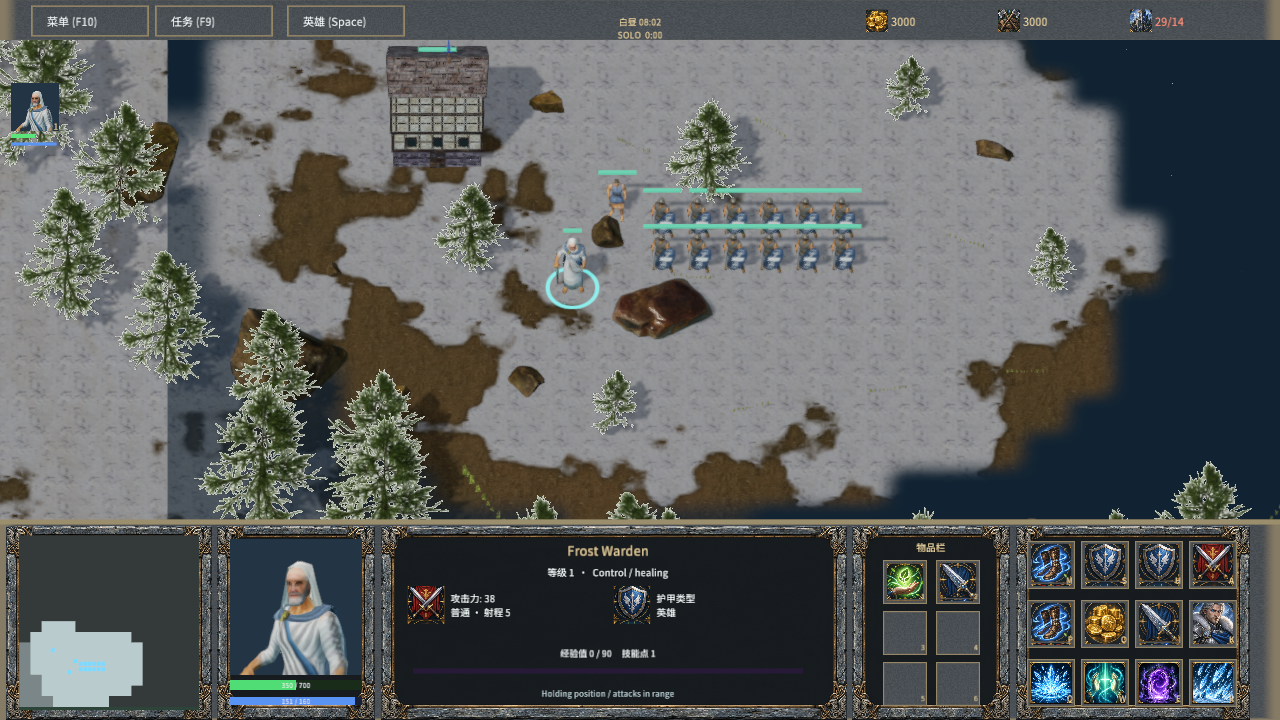
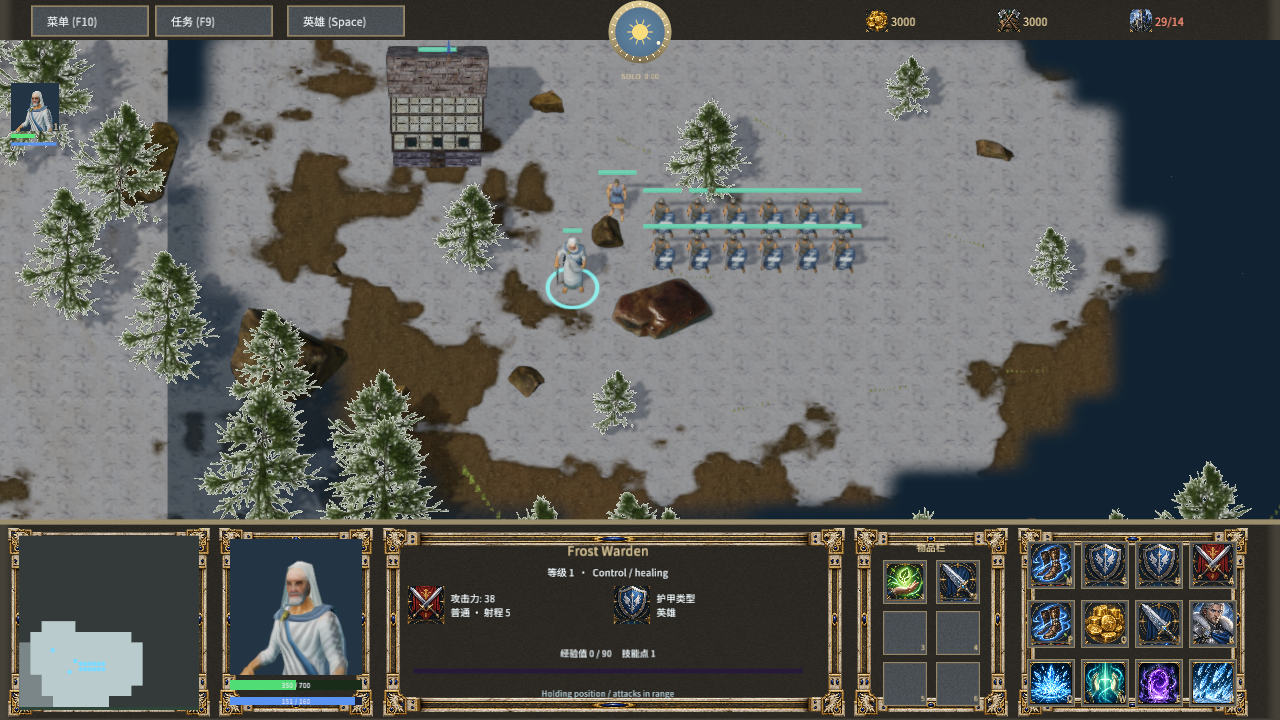
feat(frostbound): add race HUD skins and live day-night dial

Changed region(s): [[0.0, 0.7028, 1.0, 1.0], [0.0, 0.0, 1.0, 0.0917]]

diff --git a/samples/frostbound-realms/game/client.js b/samples/frostbound-realms/game/client.js
@@ -244,7 +244,10 @@ var FrostClient=(()=>{
     if(mode==='custom'){const preview=menuMap();label('Map name',menuMaps[mapChoice][0]);label('Map description',menuMaps[mapChoice][2]);for(let i=0;i<256;i++){const index=Math.floor(i/16)*64+(i%16)*2,kind=preview.terrain[index],color=kind===1?[.05,.18,.31,1]:kind===2?[.43,.33,.21,1]:[.41,.51,.48,1];set('Map tile '+i,'Image',{...authored['Map tile '+i].Image,color});}}
     label('musicVolume label','音乐音量：'+Math.round(settings.music*100)+'%');label('sfxVolume label','音效音量：'+Math.round(settings.sfx*100)+'%');label('menuSnow label','背景飘雪：'+(settings.snow?'开启':'关闭'));
     for(const n of ['Header','Brand','Resources','Clock','Bottom','Bottom rule','Minimap','Selection title','Selection stats','Selection queue','Controls','Portrait','Health back','Health fill','Mana back','Mana fill'])show(n,world);
-    for(const n of Object.keys(entities))if(n.startsWith('HUD Frame '))show(n,world);
+    const hudRace=state.teams[team].faction,hudSkin=['human','orc','night-elf','undead'][hudRace],hudTint=[[.026,.023,.018,1],[.033,.013,.006,1],[.018,.012,.032,1],[.012,.022,.016,1]][hudRace];
+    for(const n of Object.keys(entities))if(n.startsWith('HUD Frame ')||n==='Pause frame'){if(n.startsWith('HUD Frame '))show(n,world);set(n,'Image',{...authored[n].Image,sprite:'Assets/Art/hud-'+hudSkin+'-frame.png'});}
+    for(const n of ['Header','Bottom','Tooltip panel'])set(n,'Image',{...authored[n].Image,material:'Assets/Materials/RacePanel.mmat',color:hudTint});
+    show('HUD Daynight dial',world);if(world)set('HUD Daynight dial','Image',{...authored['HUD Daynight dial'].Image,color:[S.timeOfDay(state)/24,S.daylight(state),0,1]});
     for(const n of ['Gold','Lumber','Supply']){show('HUD '+n+' icon',world&&!editing);show('HUD '+n+' value',world&&!editing);}
     show('Hero preview',mode==='custom');set('Hero preview','Image',{...authored['Hero preview'].Image,sprite:FrostVisual.heroPortrait(heroClass)});
     label('heroChoice label','英雄：'+S.heroes[heroClass].label);label('faction label','种族：'+['人类','兽人','暗夜精灵','不死族'][faction]);
@@ -297,7 +300,7 @@ var FrostClient=(()=>{
 
     show('Resources',world&&editing);label('HUD Gold value',String(Math.floor(t.gold)));label('HUD Lumber value',String(Math.floor(t.wood)));label('HUD Supply value',pop.used+'/'+pop.cap,pop.used>=pop.cap?[1,.3,.2,1]:[.93,.83,.58,1]);
     label('Resources',editing?'WORLD EDITOR / '+map.mode.toUpperCase()+' / SLOT '+slot:'GOLD '+Math.floor(t.gold)+'    LUMBER '+Math.floor(t.wood)+'    SUPPLY '+pop.used+'/'+pop.cap+'    '+S.factions[t.faction].toUpperCase());
-    label('Clock',(S.isNight(state)?'夜晚 ':'白昼 ')+String(Math.floor(S.timeOfDay(state))).padStart(2,'0')+':'+String(Math.floor(S.timeOfDay(state)*60)%60).padStart(2,'0')+'\n'+(editing?'TAB changes mode':state.mode==='td'?'WAVE '+Math.min(state.wave,map.waves)+'/'+map.waves+'  LIVES '+state.lives:(online?'ONLINE  ':'SOLO  ')+Math.floor(state.frame/600)+':'+String(Math.floor(state.frame/10)%60).padStart(2,'0')));
+    label('Clock',(editing?'TAB changes mode':state.mode==='td'?'WAVE '+Math.min(state.wave,map.waves)+'/'+map.waves+'  LIVES '+state.lives:(online?'ONLINE  ':'SOLO  ')+Math.floor(state.frame/600)+':'+String(Math.floor(state.frame/10)%60).padStart(2,'0')));
     transform('Rally marker',world&&u?.rally?[u.rally.x,S.elevation(map,u.rally.x,u.rally.z)+.2,u.rally.z]:hidden,[2,2,2]);
     label('Selection title',editing?(editorPage===2?(map.triggers[triggerIndex]?.name||'TRIGGER EDITOR'):editorPage===4?(map.regions[regionIndex]?.name||'REGION EDITOR'):'WORLD EDITOR'):selected.length>1?selected.length+' units selected':u?FrostVisual.name(state,u):'Your command awaits');
     label('Selection stats',editing?(editorPage===6?['Auto winter','Soil','Snow'][surfaceBrush]+' / '+(surfaceRadius*2+1)+' x '+(surfaceRadius*2+1)+' cells\nPaint dry ground and roads\nWater and elevation preserved':editorPage===5?'Height '+heightBrush+' / '+(heightBrush*2)+' world units\n'+(rampBrush?'Ramp '+['','East','West','South','North'][rampBrush]:'Level ground')+'\nF9 Highland Pass / F7 play':editorPage===2&&map.triggers[triggerIndex]?map.triggers[triggerIndex].conditions.length+' conditions / '+map.triggers[triggerIndex].logic+'\n'+map.triggers[triggerIndex].actions.length+' actions / '+map.triggers[triggerIndex].limit+' runs\n'+(map.triggers[triggerIndex].after<0?'No prerequisite':'After #'+(map.triggers[triggerIndex].after+1)):editorPage===4&&map.regions[regionIndex]?'Width '+map.regions[regionIndex].width+' / Height '+map.regions[regionIndex].height+'\nCenter '+map.regions[regionIndex].x+', '+map.regions[regionIndex].z:'Gold '+map.startingGold+' [+ / -]\nWaves '+map.waves+' [PgUp / PgDn]\nInterval '+map.waveInterval+'s [[ / ]]'):u?'HP '+Math.ceil(u.hp)+' / '+Math.ceil(u.maxHp)+'\nATK '+Math.round(u.damage*(u.cripple>0?.5:1))+'  '+(u.kind==='hero'?'LV '+u.level+'\nMP '+Math.floor(u.mana)+' / '+S.maxMana(u):(['necromancer','shaman'].includes(u.kind)?'MP '+Math.floor(u.mana)+' / '+S.maxMana(u)+'\n':S.types[u.kind].attack+' / '+S.types[u.kind].armor+'\n')+(S.types[u.kind].flying?'Flying / ':'' )+(S.types[u.kind].antiAir?'Ground + air':'Ground only')):'Left click / drag to select\nRight click to move or attack\nWorkers gather from mines and trees');
@@ -318,6 +321,7 @@ var FrostClient=(()=>{
       set('action'+i+' box','Image',{...authored['action'+i+' box'].Image,color:hover?[.13,.21,.24,1]:[.12,.10,.055,1]});
       if(hover){const t=editing&&editorPage===2?map.triggers[triggerIndex]:null,e=t?(triggerPanel===1?t.conditions:t.actions)[entryIndex%(triggerPanel===1?t.conditions.length:t.actions.length)]:null;hint=a.label+'\n'+(a.detail||(editing&&triggerPanel===2&&e?.action==='message'?e.text:editing?'Click controls to edit. N edits names or message text; Del removes the selected entry.':'Select a target or building site when prompted.'));}
     }
+    if(world&&hovered({x:0,y:-328,w:64,h:64},hover))hint=(S.isNight(state)?'夜晚':'白昼')+'  '+String(Math.floor(S.timeOfDay(state))).padStart(2,'0')+':'+String(Math.floor(S.timeOfDay(state)*60)%60).padStart(2,'0')+'\n昼夜影响视野与野怪休眠；圆盘标记显示当前时刻。';
     show('Tooltip panel',!!hint);show('Tooltip text',!!hint);if(hint)label('Tooltip text',hint);
     set('Portrait','Image',{...authored.Portrait.Image,sprite:u&&!editing?FrostVisual.unitPortrait(state,u):'Assets/Art/command-icons.png#tower'});
     const portraitVisual=playing&&u?FrostVisual.model(state,u):null,portraitView=portraitVisual&&FrostPortraitViews[portraitVisual.key],livePortrait=!!portraitView;
@@ -342,7 +346,7 @@ var FrostClient=(()=>{
     }
     for(let i=0;i<8;i++){const index=Math.floor(roomIndex/8)*8+i,r=rooms[index],on=mode==='rooms'&&!!r;for(const suffix of [' border',' box',' label'])show('room'+i+suffix,on);if(on){label('room'+i+' label',(index===roomIndex?'▶  ':'')+r.name+'   '+r.code+'   '+r.players.length+'/2');set('room'+i+' box','Image',{...authored['room'+i+' box'].Image,color:index===roomIndex?[1.6,1.6,1.3,1]:[1,1,1,1]});}}
     show('Drag box',!!drag);if(drag){const a=authored['Drag box'].RectTransform;set('Drag box','RectTransform',{...a,anchored_position:[(drag.start.x+drag.end.x)/2,(drag.start.y+drag.end.y)/2],size_delta:[Math.abs(drag.start.x-drag.end.x),Math.abs(drag.start.y-drag.end.y)]});}
-    label('Frost telemetry',JSON.stringify({mode,mapChoice,settings,heroChoice:heroClass,heroPanel,faction,camera,zoom,flyers:state.units.filter(u=>S.types[u.kind].flying),construction:state.units.filter(u=>u.team===team&&u.built<1),production:state.units.filter(u=>u.team===team&&S.trainable(state,u).length),worker:state.units.find(u=>u.team===team&&u.kind==='worker'),gatherers:state.units.filter(u=>u.team===team&&['worker','ghoul'].includes(u.kind)),mines:state.units.filter(u=>u.kind==='hauntedmine'),resources:state.resources,corpses:state.corpses||[],necromancers:state.units.filter(u=>u.kind==='necromancer'),casterResearch:state.teams[team].necromancy||0,shamanResearch:state.teams[team].shamanism||0,cannibalizeResearch:state.teams[team].cannibalize||0,cannibals:state.units.filter(u=>['ghoul','abomination'].includes(u.kind)),skeletonResearch:[state.teams[team].skeletalLongevity||0,state.teams[team].skeletalMastery||0],affected:state.units.filter(u=>u.frenzy>0||u.cripple>0||u.purgeLeft>0||u.bloodlust>0||u.lightningShield>0),shamans:state.units.filter(u=>u.kind==='shaman'),summons:state.units.filter(u=>u.summoned),projectiles:state.projectiles?.map(({id,x,y,z,art})=>({id,x,y,z,art})),hour:S.timeOfDay(state),night:S.isNight(state),sleeping:state.units.filter(u=>(online?u.sleeping:S.asleep(state,u))).map(u=>u.id),raiders:state.units.filter(u=>u.kind==='raider'),treants:state.units.filter(u=>u.kind==='treant'),wildlife:state.units.filter(u=>u.kind==='neutral'),wave:state.wave,laneUnits:state.units.filter(u=>S.types[u.kind].laneCreep),frame:state.frame,kind:state.mode,team,units:state.units.length,gold:state.teams[team].gold,selected,hero:state.units.find(u=>u.team===team&&u.kind==='hero'),paused,online,room:code,netStates,brush,slot,editorPage,placedHeroes:map.units.filter(u=>u.kind==='hero').map(u=>({heroClass:u.heroClass??map.players[u.team]?.heroClass??0,team:u.team})),placedUnits:map.units.length,triggers:map.triggers.length,regions:map.regions?.length||0,editorTrigger:editing?map.triggers[triggerIndex]:null,editorRegion:editing?map.regions[regionIndex]:null,triggerPanel,triggered:state.triggered,triggerState:state.triggerState,announcement:state.announcements?.[team]||state.announcement,undoDepth:undo.length,quest:state.quest,loot:state.loot.length,map:map.name,terrainRaised:map.heights.filter(v=>v>0).length,terrainRamps:map.ramps.filter(v=>v>0).length,heroElevation:state.units.some(u=>u.team===team&&u.kind==='hero')?S.unitHeight(state,state.units.find(u=>u.team===team&&u.kind==='hero')):0,heightBrush,rampBrush,surfaceBrush,surfaceRadius,terrainSurfaces:[0,1,2].map(v=>map.surfaces.filter(n=>n===v).length),terrainWater:map.terrain.filter(v=>v===1).length,winner:state.winner,notice}));
+    label('Frost telemetry',JSON.stringify({mode,hudSkin,mapChoice,settings,heroChoice:heroClass,heroPanel,faction,camera,zoom,flyers:state.units.filter(u=>S.types[u.kind].flying),construction:state.units.filter(u=>u.team===team&&u.built<1),production:state.units.filter(u=>u.team===team&&S.trainable(state,u).length),worker:state.units.find(u=>u.team===team&&u.kind==='worker'),gatherers:state.units.filter(u=>u.team===team&&['worker','ghoul'].includes(u.kind)),mines:state.units.filter(u=>u.kind==='hauntedmine'),resources:state.resources,corpses:state.corpses||[],necromancers:state.units.filter(u=>u.kind==='necromancer'),casterResearch:state.teams[team].necromancy||0,shamanResearch:state.teams[team].shamanism||0,cannibalizeResearch:state.teams[team].cannibalize||0,cannibals:state.units.filter(u=>['ghoul','abomination'].includes(u.kind)),skeletonResearch:[state.teams[team].skeletalLongevity||0,state.teams[team].skeletalMastery||0],affected:state.units.filter(u=>u.frenzy>0||u.cripple>0||u.purgeLeft>0||u.bloodlust>0||u.lightningShield>0),shamans:state.units.filter(u=>u.kind==='shaman'),summons:state.units.filter(u=>u.summoned),projectiles:state.projectiles?.map(({id,x,y,z,art})=>({id,x,y,z,art})),hour:S.timeOfDay(state),night:S.isNight(state),sleeping:state.units.filter(u=>(online?u.sleeping:S.asleep(state,u))).map(u=>u.id),raiders:state.units.filter(u=>u.kind==='raider'),treants:state.units.filter(u=>u.kind==='treant'),wildlife:state.units.filter(u=>u.kind==='neutral'),wave:state.wave,laneUnits:state.units.filter(u=>S.types[u.kind].laneCreep),frame:state.frame,kind:state.mode,team,units:state.units.length,gold:state.teams[team].gold,selected,hero:state.units.find(u=>u.team===team&&u.kind==='hero'),paused,online,room:code,netStates,brush,slot,editorPage,placedHeroes:map.units.filter(u=>u.kind==='hero').map(u=>({heroClass:u.heroClass??map.players[u.team]?.heroClass??0,team:u.team})),placedUnits:map.units.length,triggers:map.triggers.length,regions:map.regions?.length||0,editorTrigger:editing?map.triggers[triggerIndex]:null,editorRegion:editing?map.regions[regionIndex]:null,triggerPanel,triggered:state.triggered,triggerState:state.triggerState,announcement:state.announcements?.[team]||state.announcement,undoDepth:undo.length,quest:state.quest,loot:state.loot.length,map:map.name,terrainRaised:map.heights.filter(v=>v>0).length,terrainRamps:map.ramps.filter(v=>v>0).length,heroElevation:state.units.some(u=>u.team===team&&u.kind==='hero')?S.unitHeight(state,state.units.find(u=>u.team===team&&u.kind==='hero')):0,heightBrush,rampBrush,surfaceBrush,surfaceRadius,terrainSurfaces:[0,1,2].map(v=>map.surfaces.filter(n=>n===v).length),terrainWater:map.terrain.filter(v=>v===1).length,winner:state.winner,notice}));
   }
   function renderMissiles(dt){
     if(mode==='playing'&&(!paused||online))flightTime+=dt;

diff --git a/docs/designs/frostbound-realms/classic-hud.md b/docs/designs/frostbound-realms/classic-hud.md
@@ -10,10 +10,17 @@ The information panel shows live attack damage/range, armor category, hero level
 
 The primary portrait now displays a native animated mesh using an independent camera in a `RawImage`. The twelve models in `head-portraits.json` reuse the camera close-ups recorded by `scripts/render-frost-head-portraits.mjs`; selection changes the model and framing. Idle/attack/cast poses use the existing game animation sampling. The portrait freezes with the single-player game menu and hides outside gameplay. Other units and buildings retain the static atlas fallback. Attribution and adaptation terms are packaged in `Assets/Licenses/Head-Portraits.txt` and the original character notices. The atlas is CC-BY-SA-4.0; original sources retain their stated licenses.
 
-Five bottom panels use an original carved limestone and bronze gryphon frame, drawn with nine-slice geometry so the corners retain their proportions. `Assets/Licenses/Royal-Stone-Frame.txt` records the generation prompt and asset hash.
+Five bottom panels and the game menu use four original race frames: human limestone and bronze, orc oak and iron, night elf living wood and silver, and undead crypt stone and bone. Native nine-slice geometry preserves the corners; dark race-tinted backing preserves text contrast. The skin follows `state.teams[team].faction`, including restored saves and a multiplayer guest's actual team. Enemy selection retains the local player's skin. `race-hud-art.json` and `Assets/Licenses/Race-HUD-Art.txt` record built-in image generation prompts, source paths, alpha validation and SHA-256 hashes.
+
+The native top-center sun/moon dial samples actual simulation time and daylight. Its rotating marker shows the current hour; hovering shows the exact time and explains sight and neutral sleep. Match time and tower-defense wave/lives remain below the dial. `DayNightDial.mshader` uses the existing native UI material hook.
+
+![Human HUD](classic-hud-human.png)
+![Orc HUD](classic-hud-orc.png)
+![Night elf HUD](classic-hud-night-elf.png)
+![Undead HUD at night](classic-hud-undead.png)
 
 Engine support: `RawImage.render_camera` stores a stable Camera2D/Camera3D reference; `render_root` optionally restricts meshes to a subtree. Empty camera uses the ordinary texture; invalid camera/root uses the texture fallback. The shared frame compiler supports screen and world canvases, remaps references on scene/prefab reload, and caps a frame at eight views of up to 1024 pixels per dimension. Each view owns its output, depth and HDR/MSAA targets and restores the main render state after submission. Mesh/material/texture resources synchronize once over the main/view union. Generated textures use GPU bindings directly, without CPU readback. Views currently render meshes and scene lights; world sprites and particle emitters are outside this portrait feature.
 
 Validation is recorded in `live-portrait-validation.json`, `live-portrait-pixels.json` and `native-classic-hud-qa.json`. Run `node scripts/build-frostbound.mjs`, `node scripts/test-frostbound.mjs`, `cargo test -p mengine-editor-host --test frost_sample` and `node scripts/qa-frostbound.mjs --hud-only` with `MENGINE_QA_ROOT` set to the isolated native QA directory. Run `python scripts/check-frost-live-portrait.py` with Pillow to compare the native portrait pixels while idle and paused. Packaged startup is checked separately by `scripts/smoke-frostbound.ps1`.
 
-This is an interface implementation stage, not a complete Warcraft III reproduction. Distinct race-specific frame art, animated framing for every remaining model, full localization, alliance/chat panels and full save-file browsing remain unfinished. The current frame art, models and icons are adaptations or original assets, not Blizzard assets. Native Agent input does not establish physical mouse, audio-listening or cross-machine LAN acceptance.
+This is an interface implementation stage, not a complete Warcraft III reproduction. Animated framing for every remaining model, full localization, alliance/chat panels and full save-file browsing remain unfinished. The current frame art, models and icons are adaptations or original assets, not Blizzard assets. Native Agent input does not establish physical mouse, audio-listening or cross-machine LAN acceptance.
